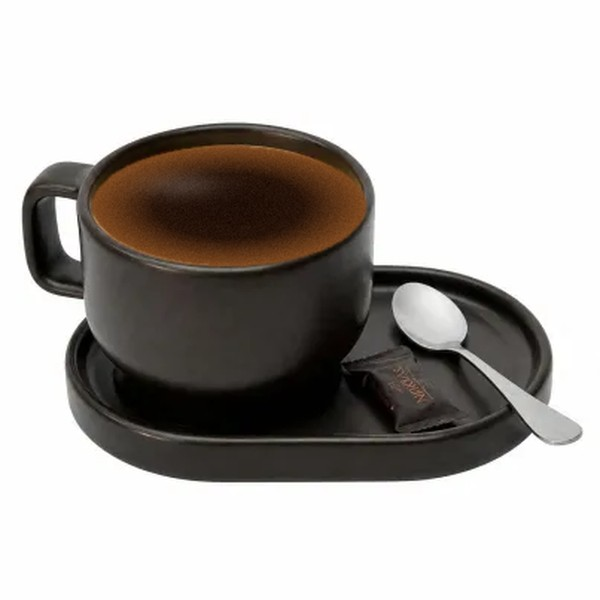
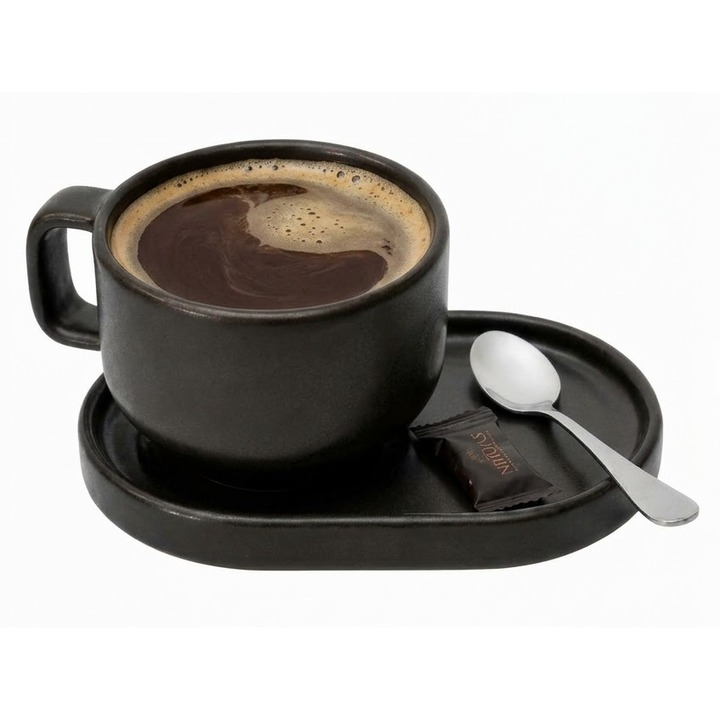
Real americano photo

Changed region(s): [[0.03, 0.18, 0.99, 0.81], [0.15, 0.72, 0.18, 0.75]]

diff --git a/sw.js b/sw.js
@@ -1,6 +1,6 @@
 /* Service worker: اجازهی نصب + باز شدن سایت بدون اینترنت.
    صفحهی اصلی اول از اینترنت گرفته میشود (تا تغییرات جدید زود دیده شود) و اگر نبود از حافظه. */
-const V = "arga-v7";
+const V = "arga-v8";
 const SHELL = ["./", "index.html", "manifest.webmanifest", "images/logo-96.png", "images/logo-192.png", "images/favicon.png"];
 
 self.addEventListener("install", e => {
